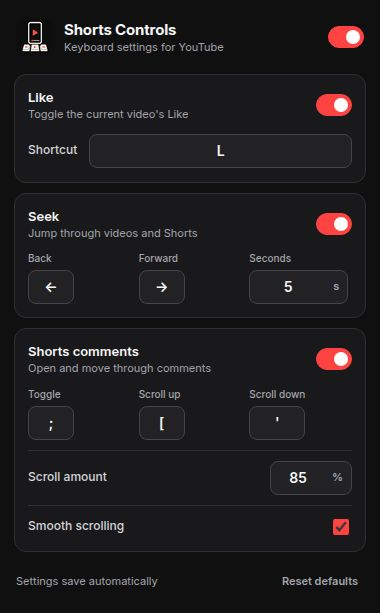
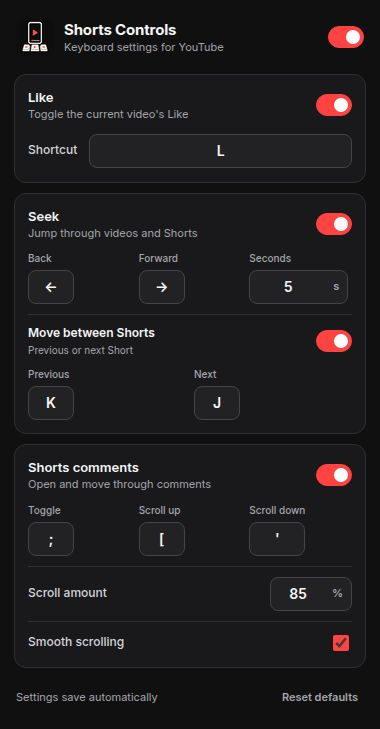
Add J and K Shorts navigation shortcuts

diff --git a/content.js b/content.js
@@ -5,11 +5,14 @@
     enabled: true,
     likeEnabled: true,
     seekEnabled: true,
+    shortsNavigationEnabled: true,
     commentsEnabled: true,
     smoothComments: true,
     likeKey: "KeyL",
     seekBackwardKey: "ArrowLeft",
     seekForwardKey: "ArrowRight",
+    shortsUpKey: "KeyK",
+    shortsDownKey: "KeyJ",
     commentsToggleKey: "Semicolon",
     commentsUpKey: "BracketLeft",
     commentsDownKey: "Quote",
@@ -239,6 +242,34 @@
     video.currentTime = nextTime;
   }
 
+  function navigateShorts(direction) {
+    const activeShort = getActiveShort();
+    if (!activeShort) return;
+
+    const shortsContainer =
+      activeShort.closest("ytd-shorts")?.querySelector("#shorts-container") ||
+      document.querySelector("ytd-shorts #shorts-container");
+    if (!shortsContainer) return;
+
+    const shorts = [...shortsContainer.querySelectorAll("ytd-reel-video-renderer")];
+    const activeIndex = shorts.indexOf(activeShort);
+    const targetShort = shorts[activeIndex + direction];
+
+    if (targetShort) {
+      targetShort.scrollIntoView({
+        behavior: "smooth",
+        block: "center",
+        inline: "nearest"
+      });
+      return;
+    }
+
+    shortsContainer.scrollBy({
+      top: direction * shortsContainer.clientHeight,
+      behavior: "smooth"
+    });
+  }
+
   document.addEventListener(
     "keydown",
     (event) => {
@@ -280,6 +311,16 @@
         event.preventDefault();
         event.stopImmediatePropagation();
         scrollComments(1);
+        return;
+      }
+
+      if (
+        settings.shortsNavigationEnabled &&
+        (event.code === settings.shortsUpKey || event.code === settings.shortsDownKey)
+      ) {
+        event.preventDefault();
+        event.stopImmediatePropagation();
+        navigateShorts(event.code === settings.shortsUpKey ? -1 : 1);
         return;
       }
 

diff --git a/popup.html b/popup.html
@@ -70,6 +70,27 @@
             </div>
           </div>
         </div>
+        <div class="subsection-heading">
+          <div>
+            <h3>Move between Shorts</h3>
+            <p>Previous or next Short</p>
+          </div>
+          <label class="switch">
+            <span class="sr-only">Enable Shorts navigation shortcuts</span>
+            <input id="shortsNavigationEnabled" type="checkbox" data-setting="shortsNavigationEnabled" />
+            <span class="switch-track" aria-hidden="true"></span>
+          </label>
+        </div>
+        <div class="key-grid navigation-grid">
+          <div class="setting-row compact">
+            <label for="shortsUpKey">Previous</label>
+            <button class="key-input" id="shortsUpKey" type="button" data-key-setting="shortsUpKey">K</button>
+          </div>
+          <div class="setting-row compact">
+            <label for="shortsDownKey">Next</label>
+            <button class="key-input" id="shortsDownKey" type="button" data-key-setting="shortsDownKey">J</button>
+          </div>
+        </div>
       </section>
 
       <section class="settings-card" aria-labelledby="comments-heading">

diff --git a/popup.css b/popup.css
@@ -105,6 +105,26 @@ h1 {
   font-weight: 650;
 }
 
+.subsection-heading {
+  display: flex;
+  align-items: center;
+  justify-content: space-between;
+  gap: 12px;
+  border-top: 1px solid var(--border);
+  padding-top: 10px;
+}
+
+.subsection-heading h3 {
+  margin: 0 0 1px;
+  font-size: 12px;
+  font-weight: 650;
+}
+
+.subsection-heading p {
+  color: var(--muted);
+  font-size: 10px;
+}
+
 .setting-row {
   display: flex;
   min-height: 36px;
@@ -124,6 +144,10 @@ h1 {
   display: grid;
   grid-template-columns: repeat(3, minmax(0, 1fr));
   gap: 8px;
+}
+
+.navigation-grid {
+  grid-template-columns: repeat(2, minmax(0, 1fr));
 }
 
 .setting-row.compact {

diff --git a/popup.js b/popup.js
@@ -5,11 +5,14 @@
     enabled: true,
     likeEnabled: true,
     seekEnabled: true,
+    shortsNavigationEnabled: true,
     commentsEnabled: true,
     smoothComments: true,
     likeKey: "KeyL",
     seekBackwardKey: "ArrowLeft",
     seekForwardKey: "ArrowRight",
+    shortsUpKey: "KeyK",
+    shortsDownKey: "KeyJ",
     commentsToggleKey: "Semicolon",
     commentsUpKey: "BracketLeft",
     commentsDownKey: "Quote",
@@ -21,6 +24,8 @@
     "likeKey",
     "seekBackwardKey",
     "seekForwardKey",
+    "shortsUpKey",
+    "shortsDownKey",
     "commentsToggleKey",
     "commentsUpKey",
     "commentsDownKey"

diff --git a/README.md b/README.md
@@ -18,6 +18,7 @@
 
 - Press `L` to like or remove your Like from the current video or Short.
 - Press `←` or `→` to seek backward or forward, including in Shorts.
+- Press `K` or `J` to move to the previous or next Short.
 - Press `;` to open or close the Shorts comments panel.
 - Press `[` or `'` to scroll up or down inside Shorts comments.
 - Change every key, seek duration, scroll amount, and feature toggle from the toolbar popup.
@@ -37,6 +38,8 @@ Settings save automatically with Chromium's synced extension storage and update 
 | Like / unlike | `L` |
 | Seek backward | `←` |
 | Seek forward | `→` |
+| Previous Short | `K` |
+| Next Short | `J` |
 | Open / close Shorts comments | `;` |
 | Scroll comments up | `[` |
 | Scroll comments down | `'` |
@@ -47,7 +50,7 @@ The popup prevents duplicate shortcuts. All shortcuts use one key without modifi
 
 ## Install in Brave
 
-1. Download `shorts-keyboard-controls-v1.3.0.zip` from the [latest release](https://github.com/Asforaa/shorts-keyboard-controls/releases/latest).
+1. Download `shorts-keyboard-controls-v1.4.0.zip` from the [latest release](https://github.com/Asforaa/shorts-keyboard-controls/releases/latest).
 2. Extract the ZIP somewhere you will keep it. Do not delete that extracted folder after installation.
 3. Open `brave://extensions`.
 4. Turn on **Developer mode** in the top-right corner.

diff --git a/CHANGELOG.md b/CHANGELOG.md
@@ -1,5 +1,11 @@
 # Changelog
 
+## 1.4.0 — 2026-07-21
+
+- Press `K` to move to the previous Short.
+- Press `J` to move to the next Short.
+- Customize or disable the Shorts navigation shortcuts from the settings popup.
+
 ## 1.3.0 — 2026-07-21
 
 First public release.
